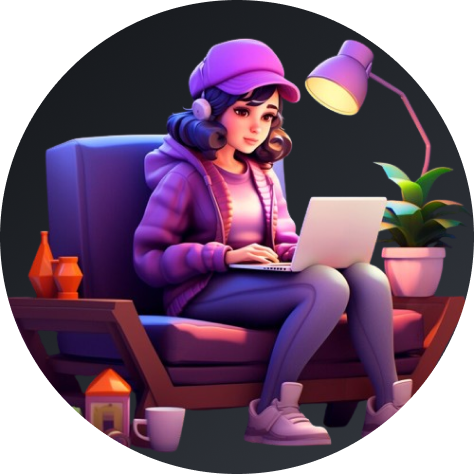
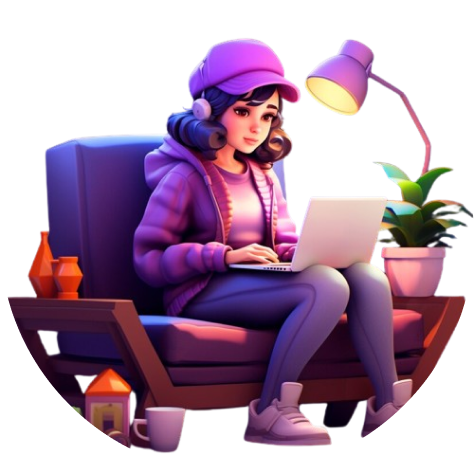
feat:border-radius

diff --git a/index.html b/index.html
@@ -10,7 +10,7 @@
 </head>
 <body>
     <header>
-        <div class="container">
+        <div class="container container__header">
             <section class="header">
                 <nav class="header__navigation">
                     <ul class="navigation__list">
@@ -25,9 +25,10 @@
                     <img src ="./img/avatar.png">
                 </div>
                 <h2 class="header__text"> Hey </h2>
+                <div id="info">hey</div>
                 <h1 class="header__text_h1">I'm Ekaterina </h1>
                 <h2 class="header__text">frontend <span>developer |</span></h2>
-                <p class="header__description">A highly motivated student studying Artificial Intelligence and Machine Learning.<br> 
+                <p class="header__description">A highly motivated student studying HTML CSS JavaScript and web development. <br> 
                     Actively seeking opportunities to apply my skills and knowledge<br>
                     to real-world projects and contribute to the advancement of the industry.</p>
                 <div class="header__btn">
@@ -37,7 +38,7 @@
         </div>    
     </header>
     <main>
-        <div class="container">
+        <div class="container container__main">
             <section class="about-me">
                 <div class="about-me__img">
                     <img src="./img/about.png">
@@ -109,8 +110,8 @@
                             <img src="./img/contact.png">
                         </div>
                         <div class="contact__form">
-                            <input type="text" class="contact__input" value="Name*"  size=" 50">
-                            <input type="text" class="contact__input" value="Email*">
+                            <input type="text" class="contact__input" placeholder="Name*"  size=" 50">
+                            <input type="text" class="contact__input" placeholder="Email*">
                             <textarea class="contact__input">Message*</textarea>
                             <button class="link">Send</button>
                         </div>
@@ -121,5 +122,7 @@
     <footer>
     </footer>
     <script src="sccript.js"></script>
+    <script src = "src/index.js"></script>
+    <script src ="src/js/constanta.js"></script>
 </body>
 </html>

diff --git a/src/index.js b/src/index.js
@@ -8,3 +8,34 @@ import "./style/about/about.scss";
 import "./style/projects/projects.scss";
 import "./style/skills/skills.scss";
 import "./style/contact/contact.scss";
+import { message } from "./js/constanta";
+import Typed from "typed.js";
+
+let typed = 999;
+ 
+function showHideText (n) {
+    if (n == 1)  {
+         if (typed == 999){
+           typed = new Typed('#info', {
+             strings: message,
+             typeSpeed: 35, // Скорость печати
+             backSpeed: 20, // Скорость удаления
+             startDelay: 400, // Задержка перед стартом анимации
+             backDelay: 3000, // Пауза перед удалением 
+             loop: false, // Повтор (true или false)
+             loopCount: 0, // Число повторов, false = бесконечно
+             showCursor: true, // Отображение курсора
+             attr: null,
+            //  onStringTyped: (arrayPos, self) => {
+            //    onlightShadow(arrayPos)
+            // },
+           })
+         } else {
+           typed.start()
+         }
+     } else if (n == 0) {    
+       typed.stop()
+    //    offlightShadow()
+     } 
+   }
+   

diff --git a/src/style/projects/projects.scss b/src/style/projects/projects.scss
@@ -29,19 +29,26 @@
     }
     &__links-img{
         background-repeat: no-repeat;
-        width:300px;
-        height: 200px;
-
+        width:150px;
+        height: 150px;
+        border-radius: 250px;
+        margin-bottom: 40px;
+        margin-right:150px;
+        &:hover{
+            box-shadow: 10px 4px 5px 2px #424e5a;
+            }
     }
     &__links-img:nth-child(2){
         background-repeat: no-repeat;
-        width:300px;
-        height: 200px;
+        width:150px;
+        height: 150px;
+        border-radius: 250px;
     }
     &__links-img:nth-child(3){
         background-repeat: no-repeat;
-        width:300px;
-        height: 200px;
+        width:150px;
+        height: 150px;
+        border-radius: 250px;
     }
     &__card{
         background-color:#21262b;
@@ -49,6 +56,9 @@
         height: 600px;
         text-align: center;
         border-radius: 20px;
+        &:hover{
+            box-shadow: 10px 4px 5px 2px #424e5a;
+            }
         &-img{
             padding-top: 32px;
         }

diff --git a/src/style/style.scss b/src/style/style.scss
@@ -1,9 +1,21 @@
+
 .container{
     max-width: 1305px;
     margin:0 auto;
     background-color:#0e1721;
     color:white;
-    border-radius: 50px;
+    // border-radius: 50px;
+
+    border:2px solid grey;
+    border-color: linear-gradient(45deg, rgb(167, 179, 176) 26%, rgb(220, 235, 235) 70%);
+    &__main{
+        border-bottom-left-radius: 40px;
+        border-bottom-right-radius: 40px;
+    }
+    &__header{
+        border-top-left-radius: 40px;
+        border-top-right-radius: 40px;
+    }
 }
 
 span{

diff --git a/src/style/about/about.scss b/src/style/about/about.scss
@@ -15,9 +15,13 @@
         max-width: 100%;
         background-size: cover;
         background-position: center;
-        
+        border-radius: 40px;
+        &:hover{
+            box-shadow: 10px 4px 5px 2px #424e5a;
+        }
     }
     &__description{
-        width: 456px;
+        width: 570px;
+        padding: 0px 40px 5px 58px;
     }
 }

diff --git a/src/style/skills/skills.scss b/src/style/skills/skills.scss
@@ -20,6 +20,12 @@
         display:flex;
         justify-content: space-between;
     }
+    &__imgs {
+        border-radius: 120px;
+        &:hover{
+            box-shadow: 10px 4px 5px 2px #424e5a;
+        }
+    }
     &__btn{
         position:relative;
         width:40px;

diff --git a/src/style/header/header.scss b/src/style/header/header.scss
@@ -16,6 +16,7 @@
         // background-repeat: no-repeat;
         width: 615px;
         height: 566px;
+        border-radius: 250px;
         &:hover{
             box-shadow: 10px 4px 5px 2px #424e5a;
         }

diff --git a/src/style/contact/contact.scss b/src/style/contact/contact.scss
@@ -35,6 +35,7 @@
         margin-bottom: 30px;
         width: 456px;
         font-size: 22px;
+        padding:0 20px;
         &:nth-child(3){
             textarea:30px;
         }

diff --git a/src/js/constanta.js b/src/js/constanta.js
@@ -1,0 +1,5 @@
+export const message =[
+    "Hey",
+    // "I'm Ekaterina",
+    // "frontend developer ",
+]
